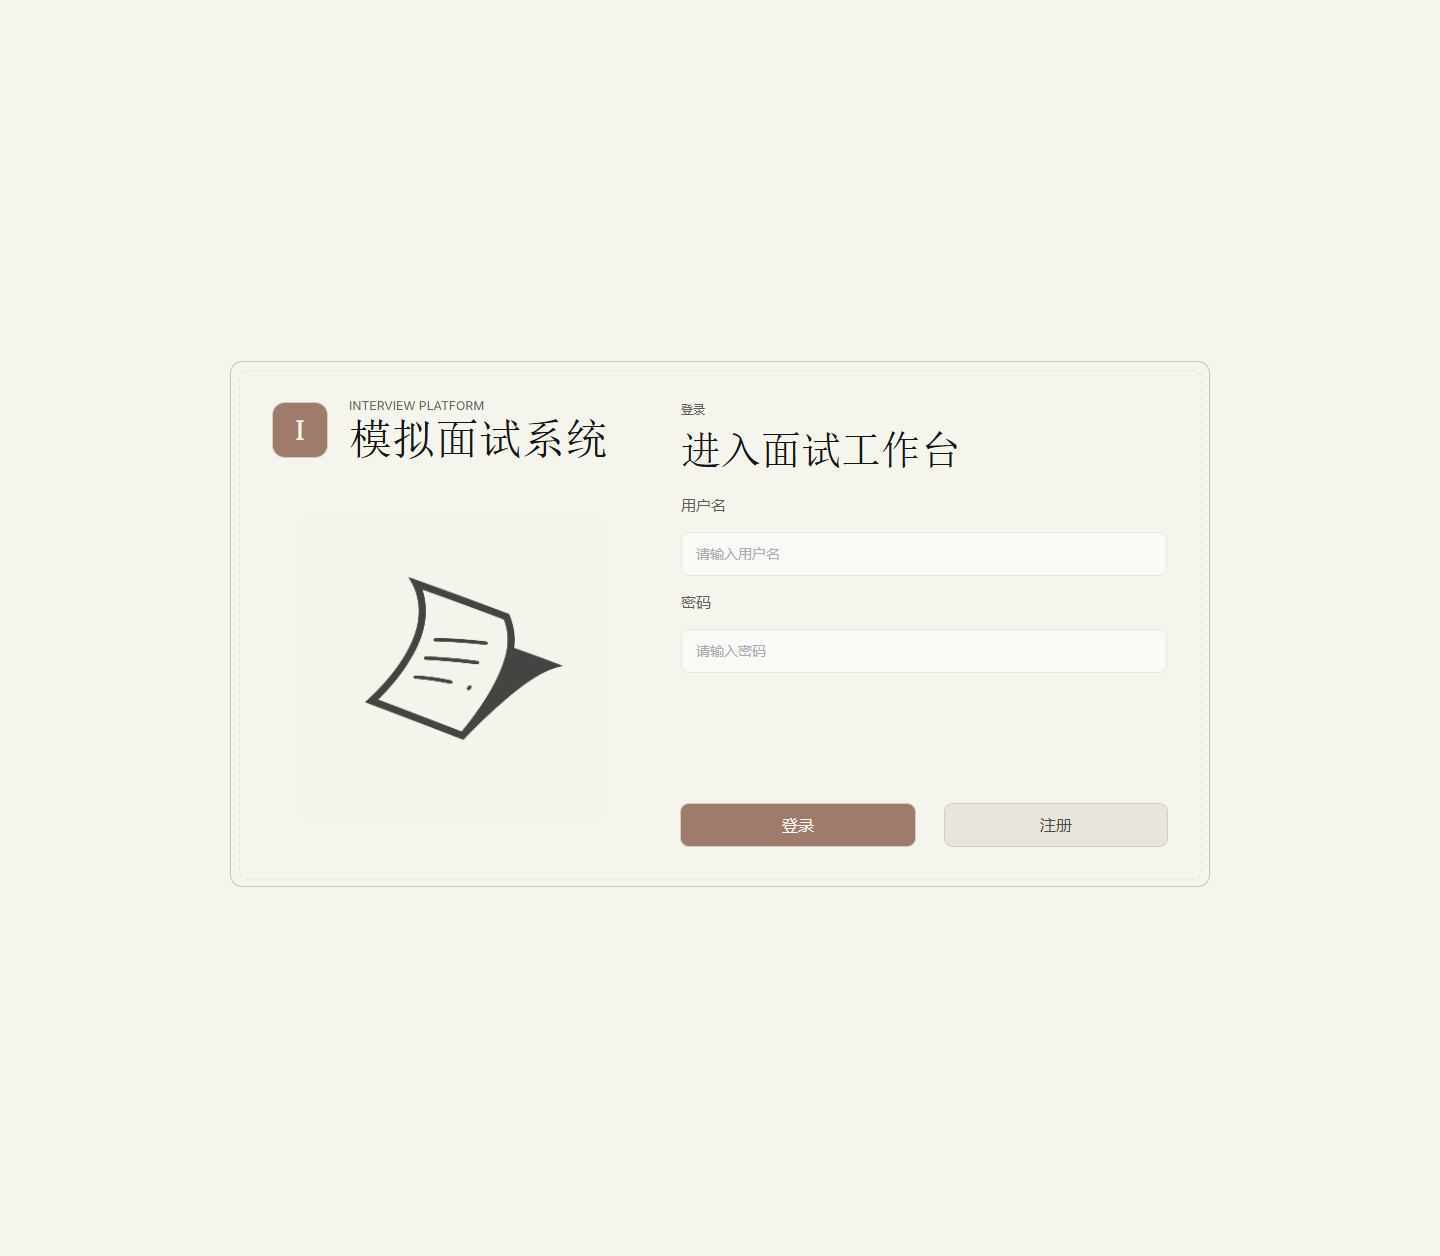
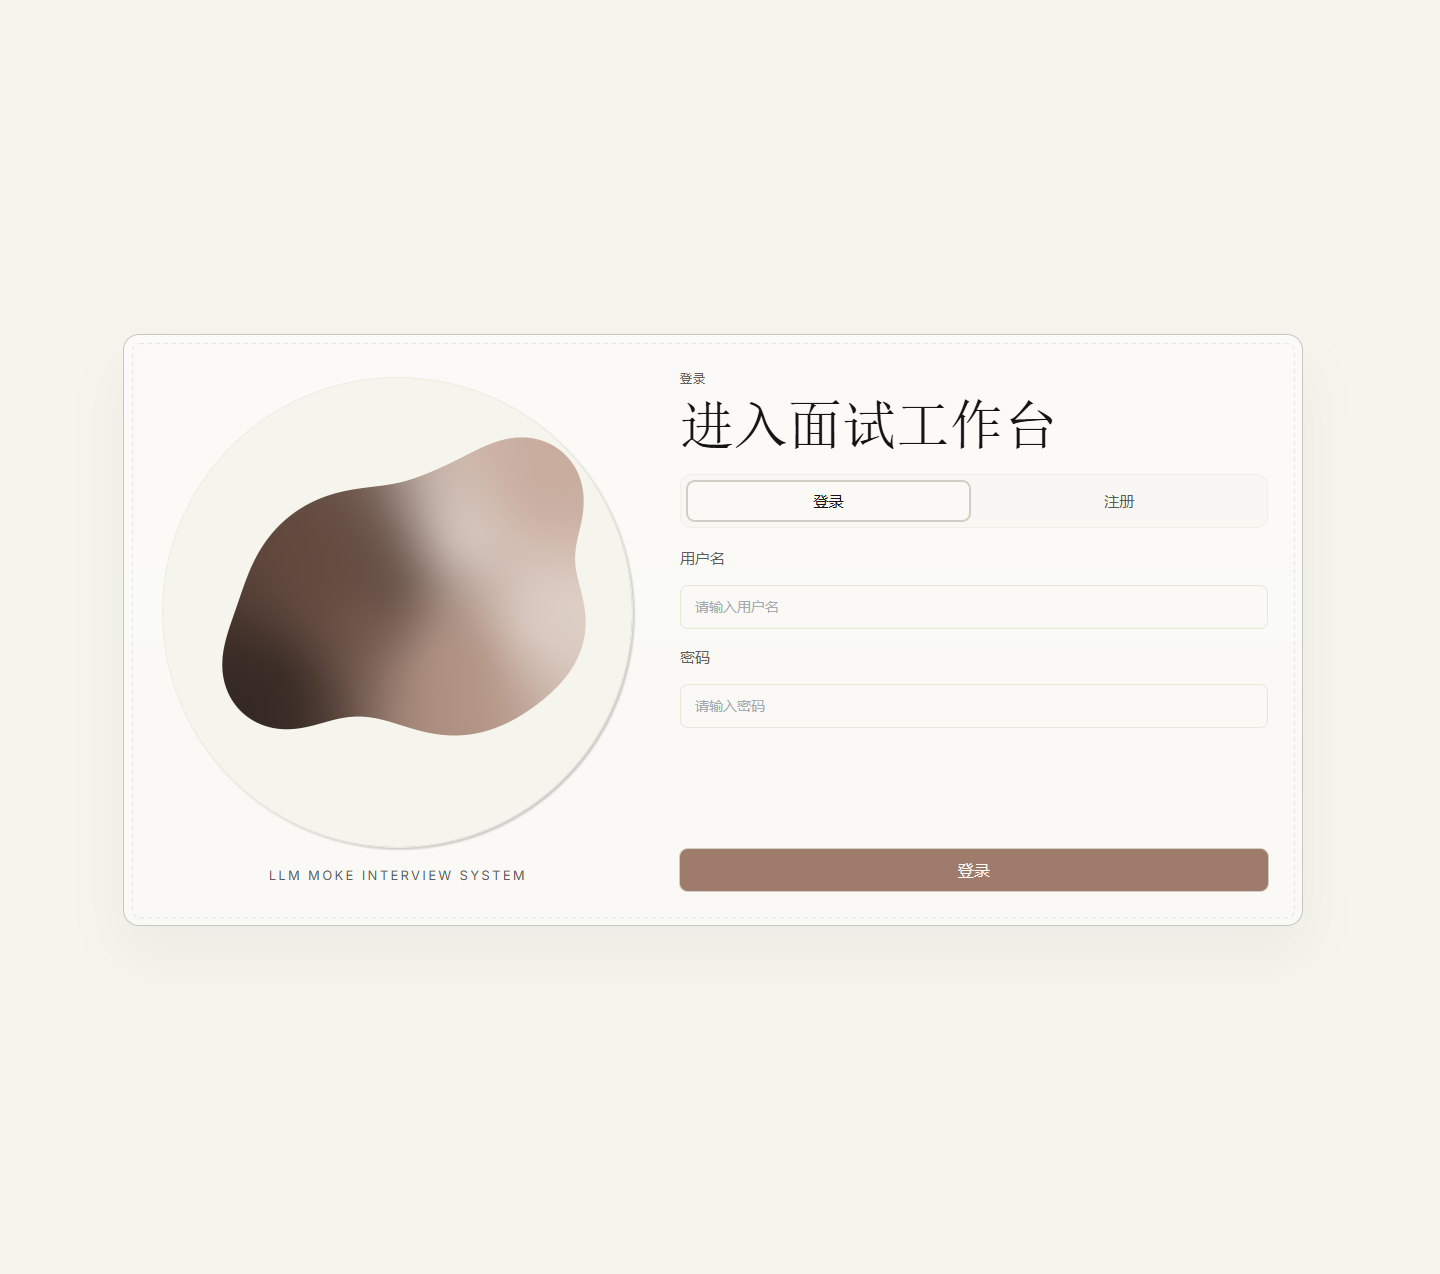
Refresh demo screenshots in README

diff --git a/interview-frontend/tests/demo-screenshots.spec.ts b/interview-frontend/tests/demo-screenshots.spec.ts
@@ -114,7 +114,7 @@ test('capture demo twin full-page screenshots', async ({ page, request }) => {
   await page.goto('/login')
   await capture(page, '01-login.png', '登录页', '登录态空白', page.getByRole('button', { name: '登录' }).first())
 
-  await page.getByRole('button', { name: '注册' }).click()
+  await page.getByRole('tab', { name: '注册' }).click()
   await capture(page, '02-register.png', '注册页', '注册表单', page.getByRole('button', { name: '完成注册' }))
 
   await page.getByRole('tab', { name: '登录' }).click()

diff --git a/output/demo/manifest.md b/output/demo/manifest.md
@@ -1,17 +1,15 @@
 # Demo Screenshot Manifest
 
-生成时间：2026/4/22 16:51:59
+生成时间：2026/4/24 21:58:39
 
 - `01-login.png` | 登录页 | 登录态空白
 - `02-register.png` | 注册页 | 注册表单
-- `03-interview-empty.png` | 主工作台 | 空态
-- `04-interview-session-started.png` | 主工作台 | 已创建会话
-- `05-interview-stage-technical.png` | 主工作台 | 技术阶段
+- `03-interview-workbench.png` | 主工作台 | 默认演示链路
+- `04-interview-stage-technical.png` | 主工作台 | 技术阶段
+- `05-interview-stage-deep-dive.png` | 主工作台 | 深挖阶段
 - `06-interview-report.png` | 主工作台 | 报告已生成
 - `07-replay.png` | 回放页 | 完整回放
-- `08-resumes-empty.png` | 简历管理 | 空态
-- `09-resumes-filled.png` | 简历管理 | 已有演示简历
-- `10-settings-llm.png` | LLM配置 | 默认配置
-- `11-settings-profile.png` | 用户设置 | 默认配置
-- `12-analytics-empty.png` | 数据看板 | 空态
-- `13-analytics-filled.png` | 数据看板 | 已有演示数据
+- `08-resumes-filled.png` | 简历管理 | 已有演示简历
+- `09-settings-llm.png` | LLM配置 | 默认配置
+- `10-settings-profile.png` | 用户设置 | 默认配置
+- `11-analytics-filled.png` | 数据看板 | 已有演示数据

diff --git a/README.md b/README.md
@@ -38,13 +38,29 @@ flowchart LR
 
 ## 界面预览
 
-| 登录 | 主工作台 | 报告 |
-| --- | --- | --- |
-| ![登录](output/demo/screenshots/01-login.png) | ![主工作台](output/demo/screenshots/04-interview-session-started.png) | ![报告](output/demo/screenshots/06-interview-report.png) |
+### 登录
 
-| 回放 | 数据看板 |
-| --- | --- |
-| ![回放](output/demo/screenshots/07-replay.png) | ![数据看板](output/demo/screenshots/13-analytics-filled.png) |
+![登录](output/demo/screenshots/01-login.png)
+
+### 主工作台
+
+![主工作台](output/demo/screenshots/03-interview-workbench.png)
+
+### 技术阶段
+
+![技术阶段](output/demo/screenshots/04-interview-stage-technical.png)
+
+### 报告生成
+
+![报告生成](output/demo/screenshots/06-interview-report.png)
+
+### 会话回放
+
+![会话回放](output/demo/screenshots/07-replay.png)
+
+### 数据看板
+
+![数据看板](output/demo/screenshots/11-analytics-filled.png)
 
 ## 技术栈
 
